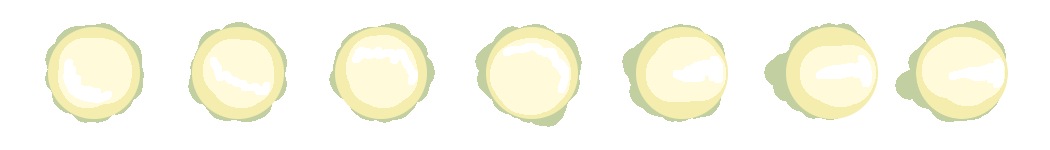
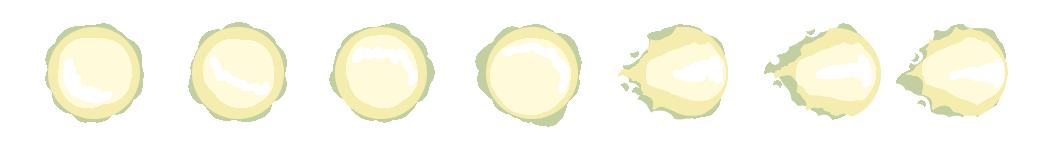
updated charge gun graphics

diff --git a/utils/weapons/guns2.py b/utils/weapons/guns2.py
@@ -113,7 +113,8 @@ class ChargeGun(PrototypeGun):
     def release(self):
         # Update Bullet properties before releasing it to the world
         for bullet in self.bullets:
-            bullet.vel = vec(10,0)
+            bullet.vel = vec(15,0)
+            bullet.frames = self.spritesheet.get_images("motion", min(self.max_size, self.charge*self.unit_size))
         # remove reference in group, so that call to update no longer
         self.bullets.empty()
         self.is_charging = False
